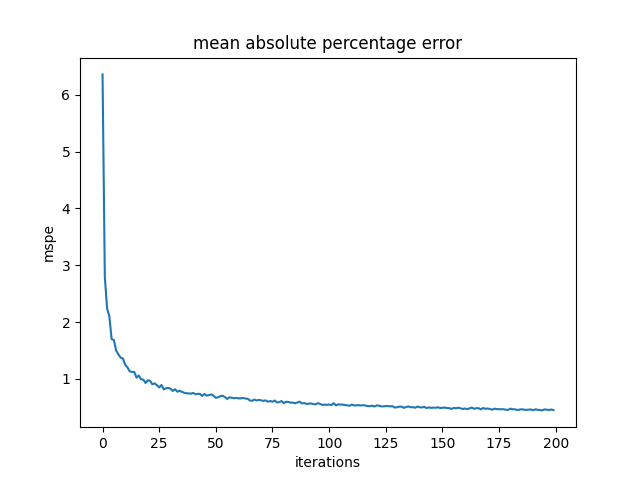
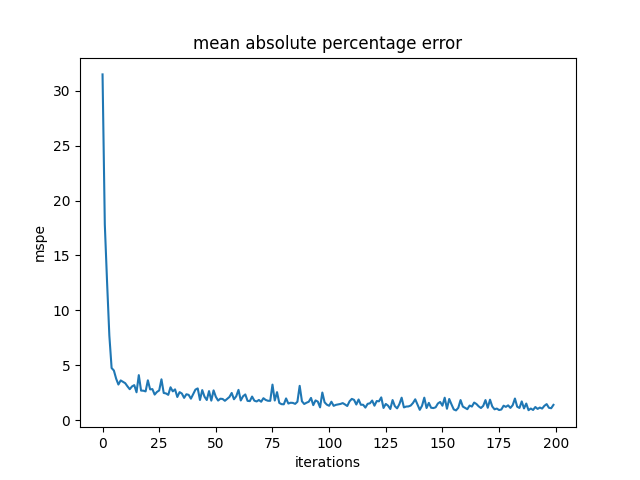
temp

diff --git a/ga2s2c.py b/ga2s2c.py
@@ -1,0 +1,372 @@
+import random
+import time
+import numpy as np
+import matplotlib.pyplot as plt
+import comtypes
+from comtypes.gen import STKUtil
+from comtypes.gen import STKObjects
+from comtypes.client import GetActiveObject
+import cProfile, pstats, io
+
+# 火焰图
+pr = cProfile.Profile()
+pr.enable()
+
+# gobal parms
+item_size = 200
+gen = 100
+cross_rate = 0.3
+variation_rate = 0.4
+totalTime = 27 * 24 * 60 * 60 + 7 * 60 * 60                 # 2358000
+startTime = time.time()
+
+print("---------------- begin STK init ----------------")
+# init STK
+uiApplication = GetActiveObject('STK10.Application')
+uiApplication.Visible = False
+root = uiApplication.Personality2
+sc = root.CurrentScenario
+sc2 = sc.QueryInterface(STKObjects.IAgScenario)
+
+# 获取卫星
+satTemp1 = sc.Children.Item('sat1')
+sat1 = satTemp1.QueryInterface(STKObjects.IAgSatellite)
+satTemp2 = sc.Children.Item('sat2')
+sat2 = satTemp2.QueryInterface(STKObjects.IAgSatellite)
+
+# 获取链路
+chainTemp1 = sc.Children.Item("ChainChidao")
+chain1 = chainTemp1.QueryInterface(STKObjects.IAgChain)
+chainTemp2 = sc.Children.Item("ChainNanji")
+chain2 = chainTemp2.QueryInterface(STKObjects.IAgChain)
+chainTemp3 = sc.Children.Item("ChainYuebei")
+chain3 = chainTemp3.QueryInterface(STKObjects.IAgChain)
+
+# 获取卫星参数修改句柄
+sat1.SetPropagatorType(STKObjects.ePropagatorJ4Perturbation)
+J4Propagator1 = sat1.Propagator.QueryInterface(
+    STKObjects.IAgVePropagatorJ4Perturbation)
+keplerian1 = J4Propagator1.InitialState.Representation.ConvertTo(
+    STKUtil.eOrbitStateClassical).QueryInterface(STKObjects.IAgOrbitStateClassical)
+keplerian1.SizeShapeType = STKObjects.eSizeShapeSemimajorAxis
+keplerian1.Orientation.AscNodeType = STKObjects.eAscNodeRAAN
+keplerian1.LocationType = STKObjects.eLocationTrueAnomaly
+sat2.SetPropagatorType(STKObjects.ePropagatorJ4Perturbation)
+J4Propagator2 = sat2.Propagator.QueryInterface(
+    STKObjects.IAgVePropagatorJ4Perturbation) 
+keplerian2 = J4Propagator2.InitialState.Representation.ConvertTo(
+    STKUtil.eOrbitStateClassical).QueryInterface(STKObjects.IAgOrbitStateClassical)
+keplerian2.SizeShapeType = STKObjects.eSizeShapeSemimajorAxis
+keplerian2.Orientation.AscNodeType = STKObjects.eAscNodeRAAN
+keplerian2.LocationType = STKObjects.eLocationTrueAnomaly
+print("---------------- finish STK init ----------------")
+
+
+# def import_init_data():
+#     data = []
+#     fo = open("ga_good_init_data.txt", "r")
+#     for line in fo:
+#         line_data = line.split(" ")
+#         line_data[-1] = line_data[-1][0 : -1]
+#         line_data = list(map(float, line_data))
+#         data.append(line_data[0 : 10])
+#     fo.close()
+#     np.random.shuffle(data) 
+#     return data[0:item_size]
+
+
+def modify(keplerian, a1, a2, a3, a4, a5, a6):
+    # 半长轴长度
+    keplerian.SizeShape.QueryInterface(STKObjects.IAgClassicalSizeShapeSemimajorAxis).SemiMajorAxis = a1
+    # 偏心率
+    keplerian.SizeShape.QueryInterface(STKObjects.IAgClassicalSizeShapeSemimajorAxis).Eccentricity = np.sqrt((1-5/3*np.cos(a3/180*np.pi)*np.cos(a3/180*np.pi)))
+    # degrees 倾角
+    keplerian.Orientation.Inclination = a3
+    # degrees 近地点
+    keplerian.Orientation.ArgOfPerigee = a4
+    # RANN 设置轨道位置
+    keplerian.Orientation.AscNode.QueryInterface(STKObjects.IAgOrientationAscNodeRAAN).Value = a5
+    # 设置卫星在该轨道中的“相位”
+    keplerian.Location.QueryInterface(STKObjects.IAgClassicalLocationTrueAnomaly).Value = a6
+
+
+def cal(group, scores):
+    # todo xzh
+    for i in range(item_size):
+        # 调整
+        modify(keplerian1, 6500, 0, group[i][0], group[i][1], group[i][2], 0)
+        sat1.Propagator.QueryInterface(
+            STKObjects.IAgVePropagatorJ4Perturbation).InitialState.Representation.Assign(keplerian1)
+        sat1.Propagator.QueryInterface(
+            STKObjects.IAgVePropagatorJ4Perturbation).Propagate()
+        modify(keplerian2, 6500, 0, group[i][3], group[i][4], group[i][5], group[i][6])
+        sat2.Propagator.QueryInterface(
+            STKObjects.IAgVePropagatorJ4Perturbation).InitialState.Representation.Assign(keplerian2)
+        sat2.Propagator.QueryInterface(
+            STKObjects.IAgVePropagatorJ4Perturbation).Propagate()
+
+        # 计算
+        chain1.ComputeAccess()
+        chain2.ComputeAccess()
+        chain3.ComputeAccess()
+        chainResults1 = chainTemp1.DataProviders.GetDataPrvIntervalFromPath(
+            "Complete Access").Exec(sc2.StartTime, sc2.StopTime)
+        chainResults2 = chainTemp2.DataProviders.GetDataPrvIntervalFromPath(
+            "Complete Access").Exec(sc2.StartTime, sc2.StopTime)
+        chainResults3 = chainTemp3.DataProviders.GetDataPrvIntervalFromPath(
+            "Complete Access").Exec(sc2.StartTime, sc2.StopTime)
+        if chainResults1.DataSets.Count != 0:
+            coverage1 = sum(chainResults1.DataSets.GetDataSetByName(
+                "Duration").GetValues()) / totalTime * 100
+        else:
+            coverage1 = 0
+        if chainResults2.DataSets.Count != 0:
+            coverage2 = sum(chainResults2.DataSets.GetDataSetByName(
+                "Duration").GetValues()) / totalTime * 100
+        else:
+            coverage2 = 0
+        if chainResults3.DataSets.Count != 0:
+            coverage3 = sum(chainResults3.DataSets.GetDataSetByName(
+                "Duration").GetValues()) / totalTime * 100
+        else:
+            coverage3 = 0
+
+        # 得分
+        scores[i] = coverage1 + coverage2 + coverage3
+    return scores
+
+def cal_once(group):
+    # 调整
+    modify(keplerian1, 6500, 0, group[0], group[1], group[2], 0)
+    sat1.Propagator.QueryInterface(
+        STKObjects.IAgVePropagatorJ4Perturbation).InitialState.Representation.Assign(keplerian1)
+    sat1.Propagator.QueryInterface(
+        STKObjects.IAgVePropagatorJ4Perturbation).Propagate()
+    modify(keplerian2, 6500, 0, group[3], group[4], group[5], group[6])
+    sat2.Propagator.QueryInterface(
+        STKObjects.IAgVePropagatorJ4Perturbation).InitialState.Representation.Assign(keplerian2)
+    sat2.Propagator.QueryInterface(
+        STKObjects.IAgVePropagatorJ4Perturbation).Propagate()
+
+    # 计算
+    chain1.ComputeAccess()
+    chain2.ComputeAccess()
+    chain3.ComputeAccess()
+    chainResults1 = chainTemp1.DataProviders.GetDataPrvIntervalFromPath(
+        "Complete Access").Exec(sc2.StartTime, sc2.StopTime)
+    chainResults2 = chainTemp2.DataProviders.GetDataPrvIntervalFromPath(
+        "Complete Access").Exec(sc2.StartTime, sc2.StopTime)
+    chainResults3 = chainTemp3.DataProviders.GetDataPrvIntervalFromPath(
+        "Complete Access").Exec(sc2.StartTime, sc2.StopTime)
+    if chainResults1.DataSets.Count != 0:
+        coverage1 = sum(chainResults1.DataSets.GetDataSetByName(
+            "Duration").GetValues()) / totalTime * 100
+    else:
+        coverage1 = 0
+    if chainResults2.DataSets.Count != 0:
+        coverage2 = sum(chainResults2.DataSets.GetDataSetByName(
+            "Duration").GetValues()) / totalTime * 100
+    else:
+        coverage2 = 0
+    if chainResults3.DataSets.Count != 0:
+        coverage3 = sum(chainResults3.DataSets.GetDataSetByName(
+            "Duration").GetValues()) / totalTime * 100
+    else:
+        coverage3 = 0
+
+    # 得分
+    score = coverage1 + coverage2 + coverage3
+    return score
+
+
+def init():
+    print("---------------- begin GA init ----------------")
+    group = [[0 for col in range(7)] for row in range(item_size)]
+    for i in range(item_size):
+        while 1:
+            # 半长轴 6500
+            # 偏心率 0 ~ 0.61
+            # 倾角,39.24~52.14
+            group[i][0] = random.random()*12.9+39.24
+            group[i][3] = random.random()*12.9+39.24
+            # 近地点,0-180
+            if random.random()>0.5:
+                group[i][1] = 90
+            else:
+                group[i][1] = 270
+            if random.random()>0.5:
+                group[i][4] = 90
+            else:
+                group[i][4] = 270
+            # 升交点,0-360
+            group[i][2] = random.random()*360
+            group[i][5] = random.random()*360
+            # 相位，0-360
+            group[i][6] = random.random()*360
+            break
+
+    # group = import_init_data()
+    scores = [0 for col in range(item_size)]
+    scores = cal(group, scores)
+    print("==== init scores:", scores)
+
+    print("---------------- finish GA init ----------------")
+    return [group, scores]
+
+
+def choose(group, scores):
+    new_group = [[0 for col in range(7)] for row in range(item_size)]
+    p_choose = [0 for col in range(item_size)]
+    sum_score = sum(scores)
+    accumulate = 0
+    # 轮盘 init
+    for i in range(item_size):
+        accumulate += scores[i]
+        p_choose[i] = accumulate / sum_score
+
+    # 轮盘 do
+    for i in range(item_size-2):
+        rand_num = random.random()
+        for j in range(item_size):
+            if rand_num <= p_choose[j]:
+                new_group[i][:] = group[j][:]
+                break
+
+    # 保留最优解，一个不动，两个参与交叉变异
+    best_item = group[scores.index(max(scores))][:]
+    new_group[item_size-1][:] = best_item
+    new_group[item_size-2][:] = best_item
+    return [best_item, new_group]
+
+
+def cross(group):
+    # todo xzh
+    times = int(item_size * cross_rate)
+    for i in range(times):
+        num_a = random.randint(0, item_size-2)
+        num_b = random.randint(0, item_size-2)
+        temp_pos1 = random.randint(0, 6)
+        temp_pos2 = random.randint(0, 6)
+        pos1 = min(temp_pos1, temp_pos2)
+        pos2 = max(temp_pos1, temp_pos2)
+
+        temp = group[num_a][pos1:pos2+1]
+        group[num_a][pos1:pos2+1] = group[num_b][pos1:pos2+1]
+        group[num_b][pos1:pos2+1] = temp
+    return group
+
+
+def variation(group):
+    times = int(item_size * variation_rate)
+    for i in range(times):
+        num = random.randint(0, item_size-2)
+        pos = random.randint(0, 6)
+        if (pos == 0 | pos == 3):
+            group[num][pos] = random.random()*13+39.24
+        elif (pos == 1 | pos == 4):
+            if random.random()>0.5:
+                group[num][pos] = 90
+            else:
+                group[num][pos] = 270
+        elif (pos == 2 | pos == 5):
+            group[num][pos] = random.random()*360
+        elif (pos == 6):
+            group[num][pos] = random.random()*360
+
+    return group
+
+def main_ga():
+    [group, scores] = init()
+    best_scores = [0 for col in range(gen+1)]
+    ave_scores = [0 for col in range(gen+1)]
+    best_items = [[0 for col in range(7)] for row in range(gen+1)]
+    best_scores[0] = max(scores)
+    ave_scores[0] = np.mean(scores)
+    best_items[0][:] = group[scores.index(max(scores))][:]
+    print("---------------- begin GA ----------------")
+    for i in range(gen):
+        print(i, "================================================")
+        # 选择
+        [best_item, group] = choose(group, scores)
+        # 交叉
+        group = cross(group)
+        # 变异
+        group = variation(group)
+        # take best
+        group[item_size-1][:] = best_item
+        # 适应度
+        scores = cal(group, scores)
+        # record & print
+        best_scores[i+1] = max(scores)
+        ave_scores[i+1] = np.mean(scores)
+        best_items[i+1][:] = group[scores.index(max(scores))][:]
+        print(best_scores[i+1])
+        print(ave_scores[i+1])
+        print(best_items[i+1][:])
+        print("================================================\n\n\n")
+
+    endTime = time.time()
+    print("time: ", endTime - startTime)
+    return [best_scores, ave_scores, best_items, endTime]
+
+    
+
+    
+
+
+[best_scores, ave_scores, best_items, endTime] = main_ga()
+
+# 火焰图
+pr.disable()
+pr.dump_stats("C:\\ProgramData\\Anaconda3\\Lib\\site-packages\\__pycache__\\request.prof")
+# pr.dump_stats("request.prof")
+# s = io.StringIO()
+# sortby = "cumtime"  # 仅适用于 3.6, 3.7 把这里改成常量了
+# ps = pstats.Stats(pr, stream=s).sort_stats(sortby)
+# ps.print_stats()
+# print(s.getvalue())
+
+
+# plot
+fig1 = plt.figure(1)
+plt.plot(best_scores)
+plt.xlabel('gen')
+plt.ylabel('best_score')
+plt.title('best_score of GA')
+fig1.savefig('best.png')
+
+fig2 = plt.figure(2)
+plt.plot(ave_scores)
+plt.xlabel('gen')
+plt.ylabel('average_score')
+plt.title('average_score of GA')
+fig2.savefig('average.png')
+
+print("================================")
+print("best: ", best_scores)
+print("ave: ", ave_scores)
+print("items: ", best_items)
+plt.show()
+
+txtStr = "ga2s2c.txt"
+myFo = open(txtStr, "w")
+
+myFo.write("time_cost\n")
+myFo.write(str(endTime - startTime))
+myFo.write("\n")
+
+myFo.wirte("best_score\n")
+myFo.write(str(best_scores))
+myFo.write("\n")
+
+myFo.wirte("ave_score\n")
+myFo.write(str(ave_scores))
+myFo.write("\n")
+
+myFo.wirte("best_item\n")
+myFo.write(str(best_item))
+
+# 火焰图执行步骤
+# python -m cProfile -s cumtime ga.py
+# cd C:\ProgramData\Anaconda3\Lib\site-packages\__pycache__
+# python flameprof.cpython-37.pyc request.prof > c:\stk\requests.svg

diff --git a/dnn_3s1c_1dir.py b/dnn_3s1c_1dir.py
@@ -29,7 +29,7 @@ def import_data():
         fo.close()
     # np.random.shuffle(train)
     # np.random.shuffle(label)
-    train_amount = 10000 * 2
+    train_amount = 10000 * 1
     test_amount = int(train_amount/4)
     training_data = train[0 : train_amount]
     training_label = label[0 : train_amount]
